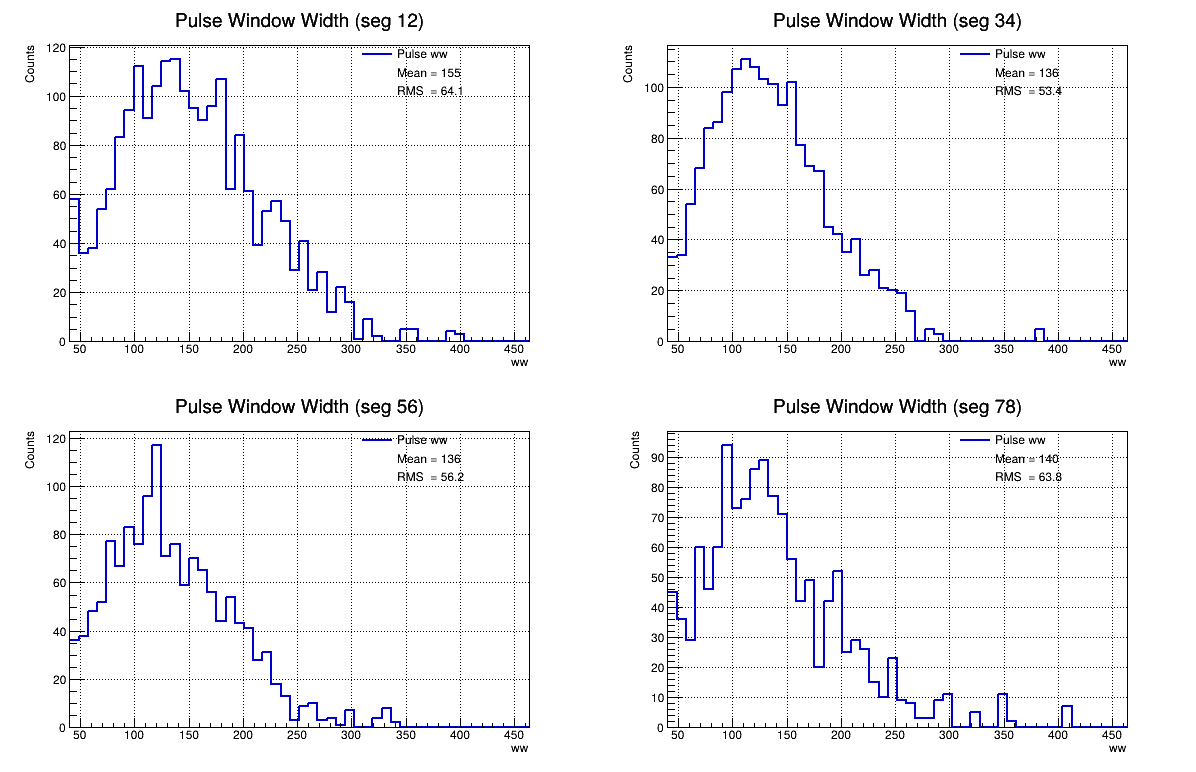
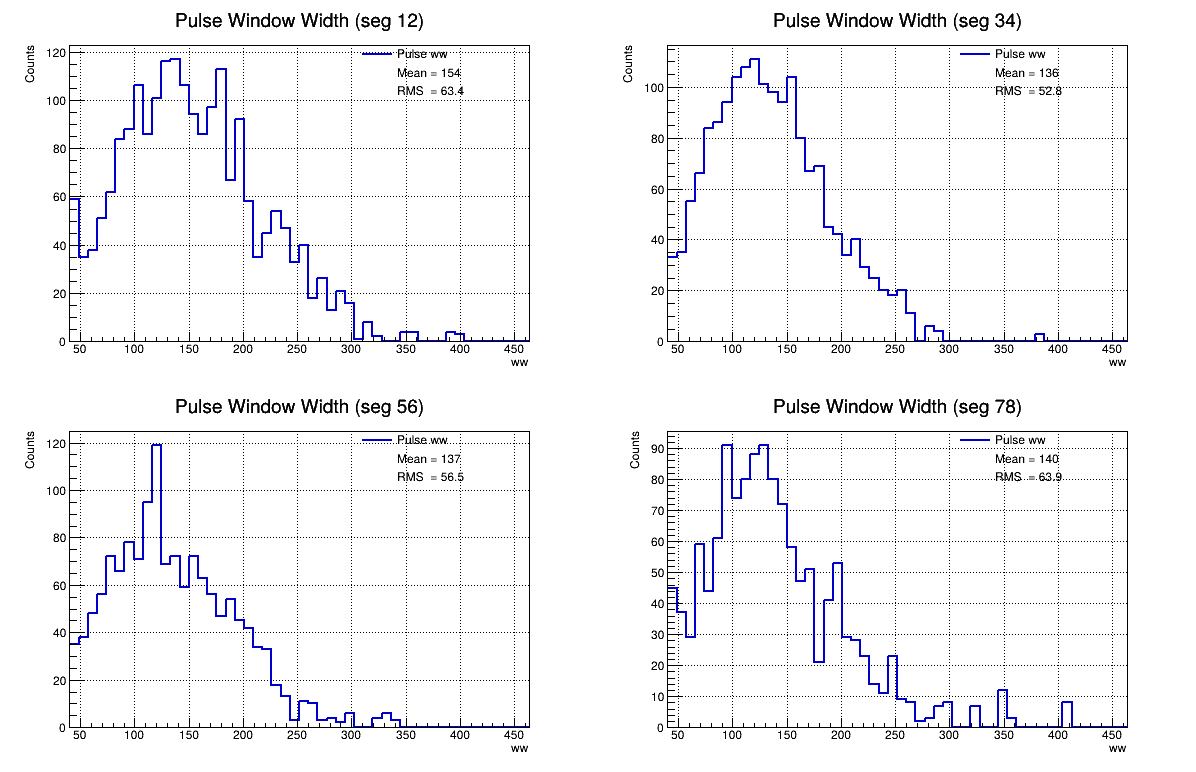
Implemented Background SSubtraction

diff --git a/src/Results_Comp.cpp b/src/Results_Comp.cpp
@@ -155,7 +155,7 @@ void plot_neglog_hist(const std::vector<WindowRow>& ws_all, const std::string& o
 
     TCanvas* c_log = new TCanvas("c_neglogL_log", "Negative Log-Likelihood (log_)", 1000, 650);
     TH1D* h_log = new TH1D("h_neglog_log", "Negative Log-Likelihood (log); -logL; Windows", nbins, mn, mx);
-    for (const auto& w : ws_all) h->Fill(w.negLogL);
+    for (const auto& w : ws_all) h_log->Fill(w.negLogL);
 
     c_log->SetGrid();
     c_log->SetLogy(1);
@@ -213,6 +213,8 @@ static void plot_comparisons(const std::vector<PulseRow>& pulse,
 
     double start = (double)run_params["fill_time"] + (double)run_params["hold_time"] + (double)run_params["clean_time"] + 40;
     double stop  = start + 60;
+    double bg_start = stop + 50;
+    double bg_stop = bg_start + 60;
 	cout << "Start, End time for comparison: " <<start << ", " << stop << endl;
 
     // --- PE distributions Comparison ---
@@ -316,6 +318,59 @@ static void plot_comparisons(const std::vector<PulseRow>& pulse,
         delete c;
     }
 
+    // --- PE distributions Comparison BG (LOG-Y) ---
+    {
+        TCanvas* c = new TCanvas("c_pe_overlay_log_bg","PE distributions (log y) by segment (bg)",1200,800);
+        c->Divide(2,2);
+        for (size_t i=0;i<segs.size();++i) {
+            c->cd((int)i+1);
+            gPad->SetGrid();
+            gPad->SetLogy(1);
+
+            auto seg = segs[i];
+            auto h_pulse = new TH1D(("h_pulsePE_log_bg_"+seg).c_str(),
+                                    ("PE (seg "+seg+");PE;Counts").c_str(),
+                                    100, 0, 100);
+            auto h_coinc = new TH1D(("h_coincPE_log_bg_"+seg).c_str(),
+                                    ("PE (seg "+seg+");PE;Counts").c_str(),
+                                    100, 0, 100);
+
+            // Fill with correct gating & units
+            for (const auto& r : pulse) {
+                if (std::get<0>(r) == seg) {
+                    double t_s = std::get<1>(r);
+                    if (t_s >= bg_start && t_s <= bg_stop) h_pulse->Fill(std::get<2>(r));
+                }
+            }
+            for (const auto& r : coinc) {
+                if (std::get<0>(r) == seg) {
+                    double t_s = std::get<1>(r);
+                    if (t_s >= bg_start && t_s <= bg_stop) h_coinc->Fill((double)std::get<2>(r));
+                }
+            }
+
+            // Styles + log-safe minima + shared max
+            h_pulse->SetLineColor(kBlue+1);  h_pulse->SetLineWidth(2);
+            h_coinc->SetLineColor(kRed+1);   h_coinc->SetLineWidth(2);
+            h_pulse->SetMinimum(0.5);
+            h_coinc->SetMinimum(0.5);
+            double ymax = std::max(h_pulse->GetMaximum(), h_coinc->GetMaximum());
+            h_pulse->SetMaximum(ymax * 1.2);
+
+            h_pulse->Draw("HIST");
+            h_coinc->Draw("HIST SAME");
+
+            auto leg = new TLegend(0.60,0.72,0.88,0.90);
+            leg->AddEntry(h_pulse, "PulseAnalysis PE", "l");
+            leg->AddEntry(h_coinc, "Coincidence PE",   "l");
+            leg->SetBorderSize(0);
+            leg->SetFillStyle(0);
+            leg->Draw();
+        }
+        c->SaveAs((out_png_prefix + "_PE_overlay_log_bg.png").c_str());
+        delete c;
+    }
+
     // --- Pulse time distributions (s) (active window only) ---
     {
         TCanvas* c = new TCanvas("c_pulse_t","Pulse Time by segment",1200,800);
@@ -402,6 +457,60 @@ static void plot_comparisons(const std::vector<PulseRow>& pulse,
             leg->Draw();
         }
         c->SaveAs((out_png_prefix + "_Time_overlay.png").c_str());
+        delete c;
+    }
+
+    // --- Pulse time distributions (s) (bg window only) ---
+    {
+        TCanvas* c = new TCanvas("c_pulse_t_bg","Pulse Time by segment (bg)",1200,800);
+        c->Divide(2,2);
+
+        int nbins = 60; // 1 bin per second since stop = start + 60 (s)
+
+        for (size_t i=0;i<segs.size();++i) {
+            c->cd((int)i+1); gPad->SetGrid();
+            gPad->SetGrid();
+            gPad->SetRightMargin(0.14); // leave space for right axis
+
+            auto seg = segs[i];
+            TH1D* h_pulse = new TH1D(("h_pulseT_bg_"+seg).c_str(),
+                               ("Pulse Time (seg "+seg+");Time (s);Counts").c_str(),
+                               nbins, bg_start, bg_stop);
+            TH1D* h_coinc = new TH1D(("h_coincT_bg_"+seg).c_str(),
+                               ("Pulse Time (seg "+seg+");Time (s);Counts").c_str(),
+                               nbins, bg_start, bg_stop);
+
+            for (const auto& r : pulse) {
+                if (std::get<0>(r) == seg) {
+                    double t_s = std::get<1>(r);
+                    if (t_s >= bg_start && t_s <= bg_stop) h_pulse->Fill(t_s);
+                }
+            }
+            for (const auto& r : coinc) {
+                if (std::get<0>(r) == seg) {
+                    double t_s = std::get<1>(r); // coinc times are in seconds → convert
+                    if (t_s >= bg_start && t_s <= bg_stop) h_coinc->Fill(t_s);
+                }
+            }
+
+            h_pulse->SetLineColor(kBlue+1);  h_pulse->SetLineWidth(2);
+            h_coinc->SetLineColor(kRed+1);   h_coinc->SetLineWidth(2);
+
+            double leftMax = std::max(h_pulse->GetMaximum(), h_coinc->GetMaximum());
+            if (leftMax <= 0) leftMax = 1.0;
+            h_pulse->SetMaximum(leftMax * 1.2);
+
+            h_pulse->Draw("HIST");
+            h_coinc->Draw("HIST SAME");
+
+            auto leg = new TLegend(0.60,0.72,0.88,0.90);
+            leg->AddEntry(h_pulse, "PulseAnalysis time", "l");
+            leg->AddEntry(h_coinc, "Coincidence time",   "l");
+            leg->SetBorderSize(0);
+            leg->SetFillStyle(0);
+            leg->Draw();
+        }
+        c->SaveAs((out_png_prefix + "_Time_overlay_bg.png").c_str());
         delete c;
     }
 

diff --git a/src/Pulse_Fitting.cpp b/src/Pulse_Fitting.cpp
@@ -43,13 +43,28 @@ void Pulse_Fitting::analyze() { // Assume 60s is the length for both the countin
     cout << "SignalTime PE Event size: " << signalTimes.size() << "  |  ";
     cout << "Background PE Event size: " << backgroundTimes.size() << endl;
     
+    const double bg_duration_sec = 60.0;
+    peBackgroundRate_ = std::max(0.0, backgroundTimes.size() / bg_duration_sec);
+    fitting_bg_ = false;
+
+    const int MAX_ITERS = 3;
+    for (int it = 0; it < MAX_ITERS; ++it) {
+        backgroundPulses_.clear();
+        fitRegion(backgroundTimes, backgroundPulses_);
+
+        double sumPE = 0.0;
+        for (const auto& pr : backgroundPulses_) sumPE += std::get<1>(pr);
+        double rate_hat = (backgroundTimes.size() - sumPE) / bg_duration_sec;
+        peBackgroundRate_ = std::max(0.0, rate_hat);
+
+        fitting_bg_ = true;
+    }
+    
     fitRegion(signalTimes, signalPulses_); // parse windows, fit pulses
-    fitRegion(backgroundTimes, backgroundPulses_); // ditto for background
 
     cout << "SignalTime Neutron Event count: " << signalPulses_.size() << "  |  ";
     cout << "Background Neutron Event count: " << backgroundPulses_.size() << "\n" << endl;
 
-    peBackgroundRate_ = backgroundTimes.size() / 60.0;
     eventBackgroundRate_ = backgroundPulses_.size() / 60.0;
 }
 
@@ -362,6 +377,12 @@ bool Pulse_Fitting::fitPulses(const vector<int>& hist, const vector<double>& xCe
     prob.pdfLookup = &pdfLookup;
     prob.fixedExpected = fixedExpected;
     prob.nTime = (int)hist.size();
+
+    // --- NEW: background rate configuration ---
+    prob.bg_rate_hz = peBackgroundRate_;
+    prob.bin_width_sec = binWidth * 1e-6;
+    prob.fit_bg = fitting_bg_;
+    // --- end NEW (August 31, 2025) ---
 
     double peMin = 1.0, peMax = 300.0;
     double dtMin = 0.0, dtMax = (double)xCenters.size() - 1.000001;

diff --git a/src/FitCore.cpp b/src/FitCore.cpp
@@ -73,6 +73,12 @@ static double negLogL_core(const std::vector<double>& params,
         for (int i = 0; i < T; ++i) {
             double v = (i < (int)fix.size() ? fix[i] : 0.0);
             expv[i] = std::isfinite(v) && v >= 0 ? v : 0.0;
+            if (prob.bg_rate_hz > 0.0 && prob.bin_width_sec > 0.0 && prob.fit_bg) {
+                const double b = prob.bg_rate_hz * prob.bin_width_sec;
+                if (std::isfinite(b) && b > 0.0) {
+                    expv[i] += b;
+                }
+            }
         }
     }
 

diff --git a/include/Pulse_Fitting.h b/include/Pulse_Fitting.h
@@ -95,6 +95,7 @@ class Pulse_Fitting {
         std::vector<std::tuple<double, double, int, double, bool, bool>> backgroundPulses_;
         double peBackgroundRate_;
         double eventBackgroundRate_;
+        bool fitting_bg_;
 
         std::vector<std::pair<double, double>> carryPulses_; // stores (abs_time_us, PE) for pulses whose tails may leak into future windows
         std::vector<double> buildCarryExpected(double winStartUs, double binWidth, const std::vector<double>& xCenters) const;

diff --git a/src/PEcoincidences2022.C b/src/PEcoincidences2022.C
@@ -279,7 +279,7 @@ double processfile(json params, string runnum, int holdtime, int filltime, int c
 	double start = (double)params["fill_time"] +
                (double)params["hold_time"] +
                (double)params["clean_time"] + 40;
-	double stop  = start + 60;
+	double stop  = start + 60 + 50 + 60; // end of bg
 	cout << "Start, End time for coincidences: " <<start << ", " << stop << endl;
 
 	string part1 = "../UCNtau_2022_raw_data/processed_output_";

diff --git a/include/FitCore.h b/include/FitCore.h
@@ -7,6 +7,9 @@ struct FitProblem {
     const std::vector<std::vector<double>>* pdfLookup;
     const std::vector<double>* fixedExpected;
     int nTime;
+    double bg_rate_hz = 0.0;
+    double bin_width_sec = 0.0;
+    bool fit_bg = false;
 };
 
 struct FitResult {
